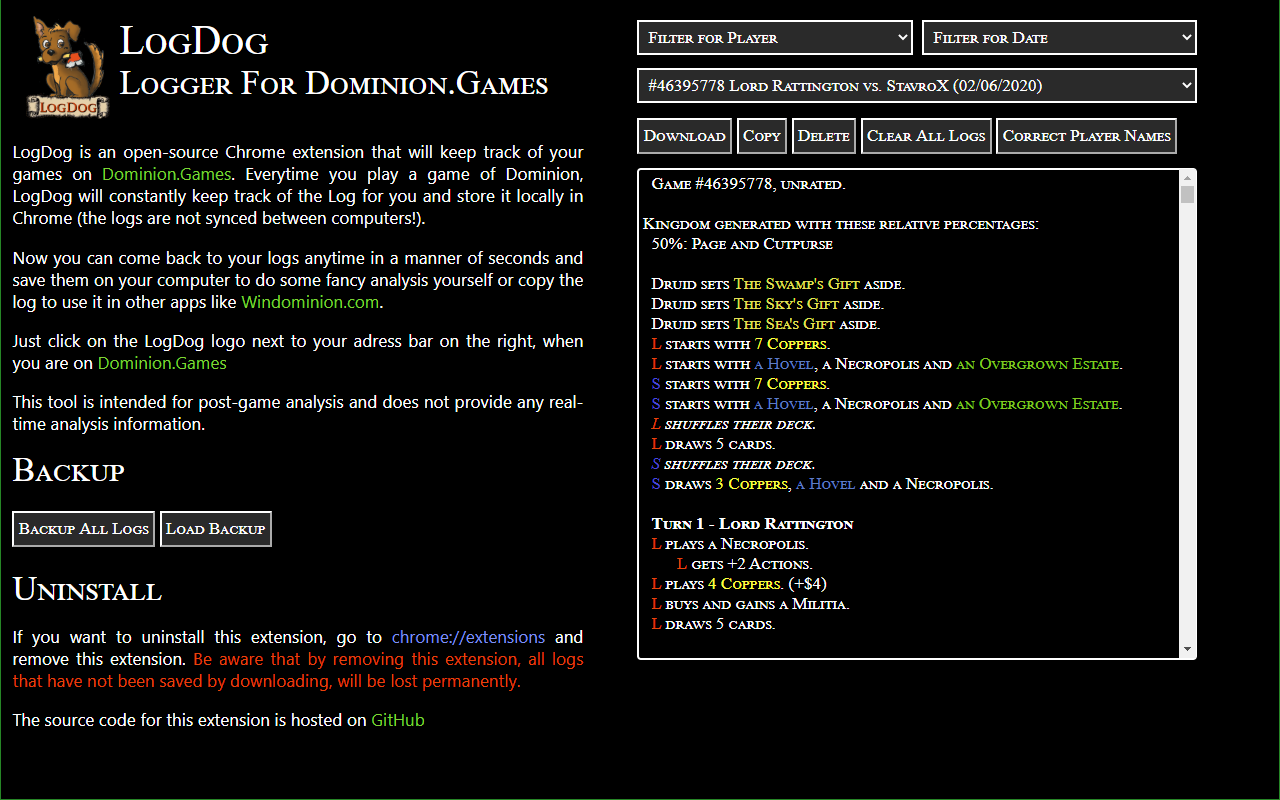
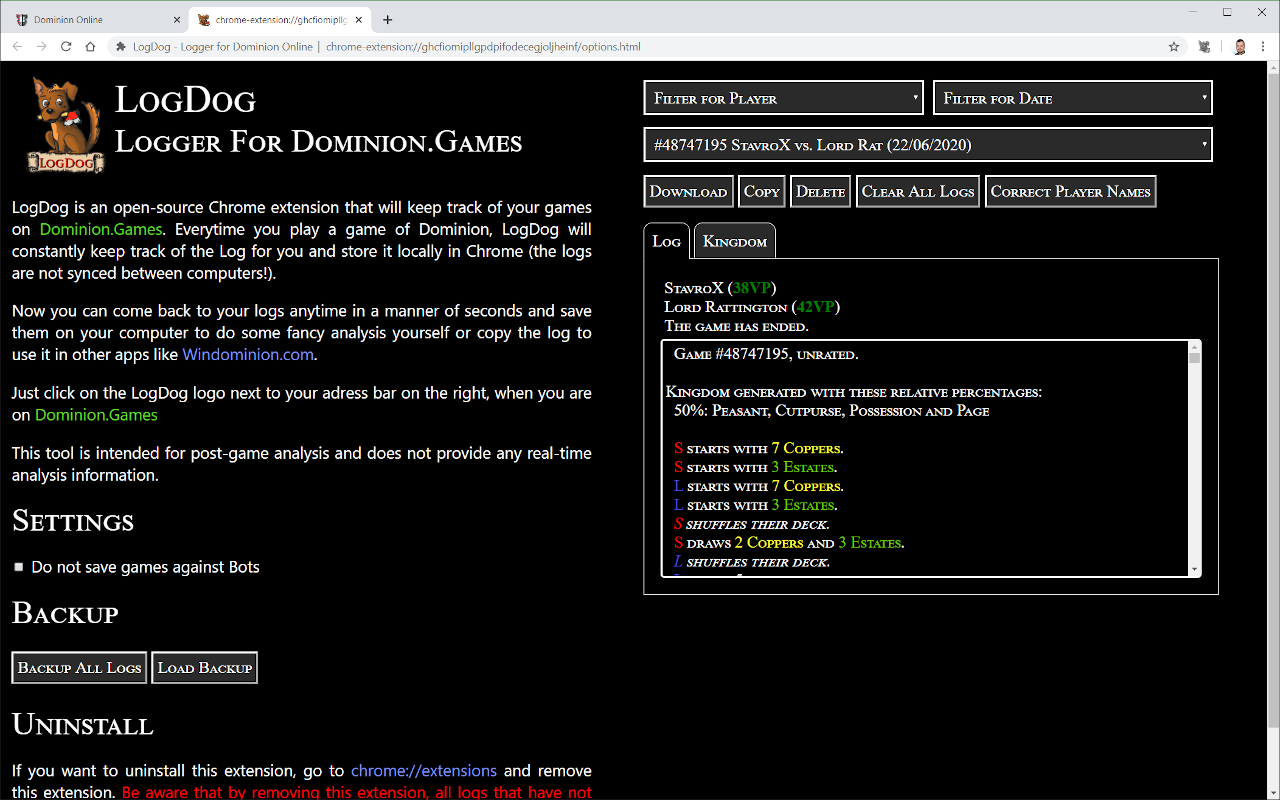
v0.0.15
abbreviation of player names

Changed region(s): [[0.0, 0.0, 1.0, 1.0]]

diff --git a/options.js b/options.js
@@ -34,6 +34,39 @@ function clearAllLogs(){
 }
 
 /**
+ * function that abbreveiates player names as in dominion.games logs
+ */
+function abbreviateNames(players){
+  abbr = []
+  for(i=0;i<players.length;i++){
+    abbr.push("");
+  }
+  let j=0;
+  let duplicates = [];
+  let fullAbbr = new Array(players.length);
+  let ignore = [];
+  do{
+    duplicates = [];
+    for(i=0; i<players.length;i++){
+      abbr[i] += players[i].charAt(j);
+    }
+
+    for(i=abbr.length-1; i>=0;i--){
+      firstIndex = abbr.indexOf(abbr[i]);
+      if(firstIndex!=i){
+        duplicates.push(i);
+        duplicates.push(firstIndex);
+      }else if(duplicates.indexOf(i) == -1 && ignore.indexOf(i) == -1){
+        fullAbbr[i] = abbr[i]
+        ignore.push(i)
+      }
+    }
+    j++;
+  }while(j<4)
+  return fullAbbr;
+}
+
+/**
  * function that allows to change the name of players in case the log was fetched
  * after the game was done and AI player took the place.
  *
@@ -44,49 +77,22 @@ async function changeNames(){
 	let log = LogPanel.innerHTML;
 	if(log.match(/#\d+/) != null){
 		let players = [];
-		let abbr = [];
-		let newAbbr = [];
 		// get current gameID from the presented log.
 		gameID = log.match(/#\d+/).toString()
 		
-		// Load the corresponding game 
+		// Load the corresponding game and initialize the abbreviations
 		const game = await loadStoredGameByGameID(gameID);
 		for(let i=0; i<game.players.length; i++){
 			// get the corrected player names (display the original ones)
 			players[i] = prompt("Player "+(i+1), game.players[i]);
-			
+			// clicked cancel
 			if(players[i] == null) return;
-			abbr[i] = game.players[i].charAt(0);
-			newAbbr[i] = players[i].charAt(0);
 		}
 		
 		// Determine old and new name abbreviations:
-		
-		let j=1;
-		while(new Set(abbr).size < abbr.length){
-			for(let i=0; i<game.players.length; i++){
-				try{
-					abbr[i] = abbr[i] + game.players[i].charAt(j);
-				}catch(e){
-					console.log("setting up abbr1");
-					console.log(e);
-					};
-			}
-			j++;
-		}
-		
-		j=1;
-		while(new Set(newAbbr).size < newAbbr.length){
-			for(let i=0; i<game.players.length; i++){
-				try{
-					newAbbr[i] = newAbbr[i] + players[i].charAt(j);
-				}catch(e){
-					console.log("setting up abbr1");
-					console.log(e);
-					};
-			}
-			j++;
-		};
+		let abbr = abbreviateNames(game.players);
+		let newAbbr = abbreviateNames(players);
+
 		
 		//Exchange names and abbreviations in the log 
 		for(let i=0; i<game.players.length; i++){
@@ -125,7 +131,7 @@ function backupLogs() {
 	//load all games and save them to the download folder
 	chrome.storage.local.get(null, function(games) { 
 		// Convert object to a Json string.
-		const result = JSON.stringify(games);
+		const result = JSON.stringify(games,null,"  ");
 
 		// Save the Json file
 		const url = 'data:application/json;base64,' + btoa(result);

diff --git a/popup.js b/popup.js
@@ -134,7 +134,8 @@ async function loadLog(index = -1){
 						if(gameStatus!=undefined){
 							txt=txt+gameStatus;
 						}
-						
+					}catch(e){}
+					try{
 						game.kingdom.kingdomCards.forEach(card =>{
 							let cardImage = new Image();
 							if(["Avanto", "Bustling Village", "Emporium", "Fortune", "Plunder", "Rocks"].indexOf(card) == -1){

diff --git a/contentScript.js b/contentScript.js
@@ -22,7 +22,7 @@ function getGameLog() {
 			}
 			VPs.push(entry)
 		}
-	}catch (e) {}
+	}catch (e) {console.log(e)}
 	
 	try{
 		const endStatus = document.getElementsByClassName('timeout');
